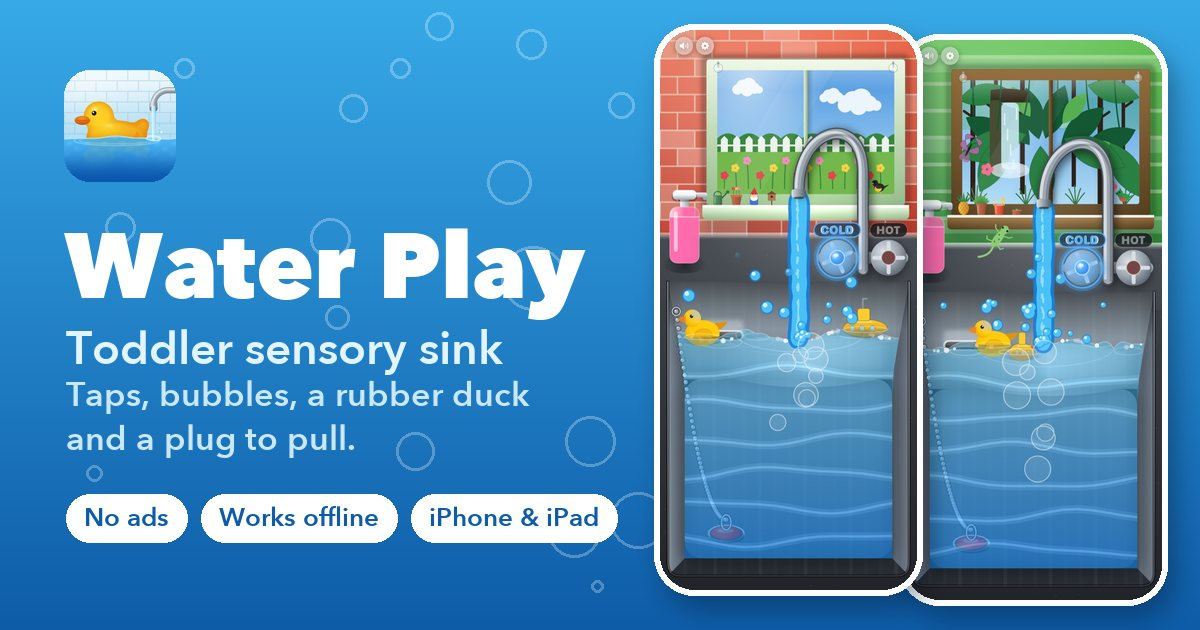
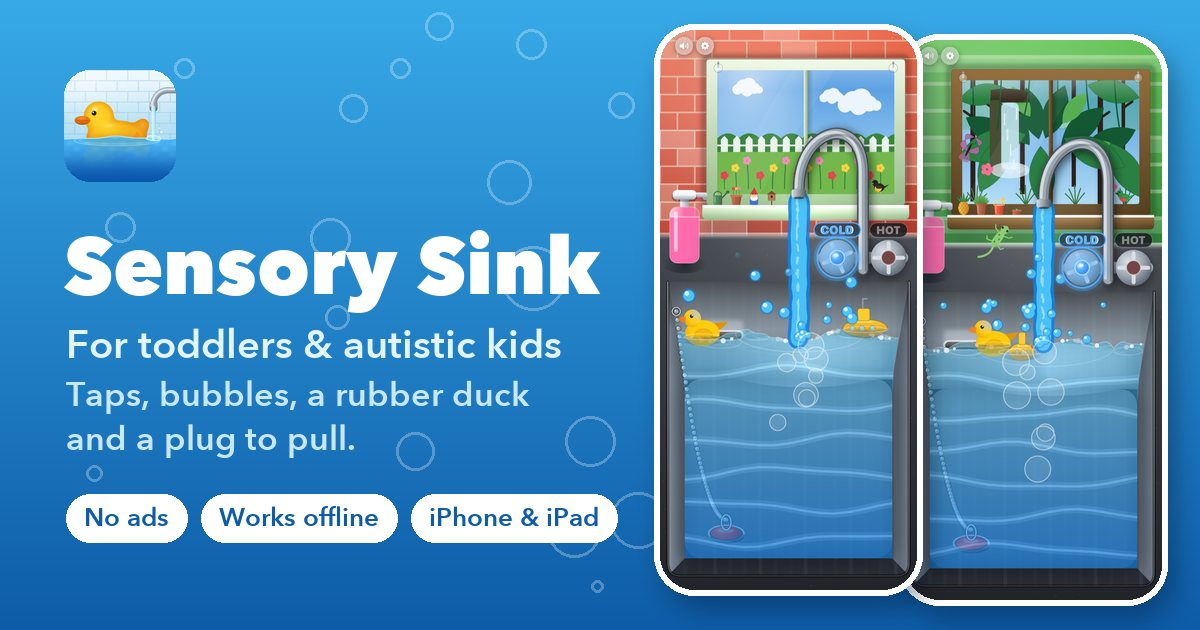
Sensory Sink: share image, email subjects, form subject and store links

Changed region(s): [[0.0308, 0.3619, 0.5242, 0.6032]]

diff --git a/apps/waterplay/about/index.html b/apps/waterplay/about/index.html
@@ -32,7 +32,7 @@
   <link rel="icon" type="image/png" sizes="32x32" href="/favicon-32x32.png">
   <link rel="icon" type="image/png" sizes="16x16" href="/favicon-16x16.png">
   <link rel="manifest" href="/site.webmanifest">
-  <script type="application/ld+json" id="ld-seo">{"@context":"https://schema.org","@graph":[{"@type":"Organization","@id":"https://joemet123.com/#org","name":"JOEMET123","url":"https://joemet123.com/","logo":{"@type":"ImageObject","url":"https://joemet123.com/android-chrome-512x512.png","width":512,"height":512}},{"@type":"WebSite","@id":"https://joemet123.com/#website","url":"https://joemet123.com/","name":"JOEMET123","inLanguage":"en","publisher":{"@id":"https://joemet123.com/#org"}},{"@type":"AboutPage","@id":"https://joemet123.com/apps/waterplay/about/#webpage","url":"https://joemet123.com/apps/waterplay/about/","name":"Sensory Sink: Water Play Fun! — For toddlers & autistic kids","description":"Sensory Sink is a calm, real-feeling water play sink made for toddlers and autistic kids. Turn the taps, pull the plug and float the rubber duck. No ads, works offline.","inLanguage":"en","isPartOf":{"@id":"https://joemet123.com/#website"},"about":{"@id":"https://joemet123.com/apps/waterplay/#app"},"mainEntity":{"@id":"https://joemet123.com/apps/waterplay/#app"},"breadcrumb":{"@id":"https://joemet123.com/apps/waterplay/about/#breadcrumb"},"dateModified":"2026-10-10","primaryImageOfPage":{"@type":"ImageObject","url":"https://joemet123.com/apps/waterplay/img/og.jpg","width":1200,"height":630}},{"@type":"BreadcrumbList","@id":"https://joemet123.com/apps/waterplay/about/#breadcrumb","itemListElement":[{"@type":"ListItem","position":1,"name":"Home","item":"https://joemet123.com/"},{"@type":"ListItem","position":2,"name":"Apps","item":"https://joemet123.com/apps.html"},{"@type":"ListItem","position":3,"name":"Sensory Sink","item":"https://joemet123.com/apps/waterplay/about/"}]},{"@type":"MobileApplication","@id":"https://joemet123.com/apps/waterplay/#app","name":"Sensory Sink: Water Play Fun!","alternateName":["Sensory Sink","Water Play"],"description":"A calm, real-feeling kitchen sink made for toddlers and autistic kids who love water: turn the taps, splash, pull the plug, pump soap bubbles and float the rubber duck. Made for Kids (ages 5 and under). No ads, no accounts, works offline.","url":"https://joemet123.com/apps/waterplay/about/","image":"https://joemet123.com/apps/icons/waterplay.png","screenshot":["https://joemet123.com/apps/waterplay/img/iphone_1.jpg","https://joemet123.com/apps/waterplay/img/iphone_6.jpg","https://joemet123.com/apps/waterplay/img/iphone_7.jpg","https://joemet123.com/apps/waterplay/img/iphone_8.jpg","https://joemet123.com/apps/waterplay/img/ipad_1.jpg"],"operatingSystem":"iOS 17.0 or later, iPadOS 17.0 or later","applicationCategory":"GameApplication","applicationSubCategory":"Family","genre":["Family","Casual","Education"],"contentRating":"Made for Kids, ages 5 and under","inLanguage":"en","isAccessibleForFree":true,"accessibilityFeature":["VoiceOver","Switch Control"],"installUrl":"https://apps.apple.com/app/id6810486926","downloadUrl":"https://apps.apple.com/app/id6810486926","sameAs":["https://apps.apple.com/us/app/water-play-sink-into-fun/id6810486926"],"featureList":["Hot and cold taps with on/off lamps","Multi-touch splashing","A plug to pull and push back in","Soap pump, bubbles and foam","Rubber duck, submarine and penguin toys","A steamy window to wipe","Day, sunset and night skies","Twelve window views","No ads","No accounts","Works offline","Grown-up gate on the purchase","Family Sharing","VoiceOver and Switch Control","iPhone, iPad and iPhone Duo"],"offers":[{"@type":"Offer","price":"0","priceCurrency":"USD","category":"free"},{"@type":"Offer","name":"Unlock Everything","description":"Every window, toy, wall and sound, for good","price":"2.99","priceCurrency":"USD","category":"in-app purchase"}],"publisher":{"@type":"Organization","@id":"https://joemet123.com/apps.html#llc","name":"JOEMET123 LLC","url":"https://joemet123.com/apps.html","email":"Business@joemet123.com"},"audience":{"@type":"PeopleAudience","suggestedMinAge":0,"suggestedMaxAge":5}},{"@type":"FAQPage","@id":"https://joemet123.com/apps/waterplay/about/#faq","mainEntity":[{"@type":"Question","name":"Is Sensory Sink free?","acceptedAnswer":{"@type":"Answer","text":"Yes. Sensory Sink is free to download and free to play, with four windows, three toys, two wall styles in six colors and the steady water sound. One optional $2.99 purchase, Unlock Everything, opens the other eight windows, six more toys and more for good, once, with no subscription."}},{"@type":"Question","name":"Does Sensory Sink have ads?","acceptedAnswer":{"@type":"Answer","text":"No. There are no ads of any kind, no pop-ups, no analytics and no links out of the app for a child to tap."}},{"@type":"Question","name":"Does it work offline?","acceptedAnswer":{"@type":"Answer","text":"Yes. The sink runs entirely on the device, so it works on a plane, in a car or in a waiting room with no internet connection. Only buying or restoring the unlock needs a connection."}},{"@type":"Question","name":"Is Sensory Sink suitable for autistic children?","acceptedAnswer":{"@type":"Answer","text":"Sensory Sink is made for toddlers and autistic kids. Many autistic and sensory-seeking children love running water, and the app was designed with them in mind: calm sounds, no timers, no scores, nothing that can fail and no sudden surprises. It is a play app, not a therapy or treatment, and every child is different, so try the free version first and see how your child responds."}},{"@type":"Question","name":"What ages is Sensory Sink for?","acceptedAnswer":{"@type":"Answer","text":"Sensory Sink is made for toddlers and autistic kids, and is in the App Store's Kids category for ages 5 and under. There is no reading and nothing to win."}},{"@type":"Question","name":"Does Family Sharing work with the unlock?","acceptedAnswer":{"@type":"Answer","text":"Yes. Unlock Everything supports Family Sharing, so one purchase opens everything on every device in your family group. If it does not appear, tap Restore in the settings."}},{"@type":"Question","name":"Does it work on iPad and the iPhone Duo?","acceptedAnswer":{"@type":"Answer","text":"Yes. Sensory Sink runs on iPhone and iPad with iOS 17 or later. On iPad the sink fills the screen, and on the iPhone Duo it fits the folded cover screen and stays clear of the camera."}},{"@type":"Question","name":"Can my child buy something by accident?","acceptedAnswer":{"@type":"Answer","text":"No. Locked items show a padlock, and tapping one opens a grown-up gate, a multiplication question that has to be typed in, before the purchase sheet appears. A child tapping around the settings cannot reach a purchase."}},{"@type":"Question","name":"How do I get help?","acceptedAnswer":{"@type":"Answer","text":"Use the Sensory Sink support page or email Business@joemet123.com with \"Sensory Sink\" in the subject. A person replies within 3 business days."}}]}]}</script>
+  <script type="application/ld+json" id="ld-seo">{"@context":"https://schema.org","@graph":[{"@type":"Organization","@id":"https://joemet123.com/#org","name":"JOEMET123","url":"https://joemet123.com/","logo":{"@type":"ImageObject","url":"https://joemet123.com/android-chrome-512x512.png","width":512,"height":512}},{"@type":"WebSite","@id":"https://joemet123.com/#website","url":"https://joemet123.com/","name":"JOEMET123","inLanguage":"en","publisher":{"@id":"https://joemet123.com/#org"}},{"@type":"AboutPage","@id":"https://joemet123.com/apps/waterplay/about/#webpage","url":"https://joemet123.com/apps/waterplay/about/","name":"Sensory Sink: Water Play Fun! — For toddlers & autistic kids","description":"Sensory Sink is a calm, real-feeling water play sink made for toddlers and autistic kids. Turn the taps, pull the plug and float the rubber duck. No ads, works offline.","inLanguage":"en","isPartOf":{"@id":"https://joemet123.com/#website"},"about":{"@id":"https://joemet123.com/apps/waterplay/#app"},"mainEntity":{"@id":"https://joemet123.com/apps/waterplay/#app"},"breadcrumb":{"@id":"https://joemet123.com/apps/waterplay/about/#breadcrumb"},"dateModified":"2026-10-10","primaryImageOfPage":{"@type":"ImageObject","url":"https://joemet123.com/apps/waterplay/img/og.jpg","width":1200,"height":630}},{"@type":"BreadcrumbList","@id":"https://joemet123.com/apps/waterplay/about/#breadcrumb","itemListElement":[{"@type":"ListItem","position":1,"name":"Home","item":"https://joemet123.com/"},{"@type":"ListItem","position":2,"name":"Apps","item":"https://joemet123.com/apps.html"},{"@type":"ListItem","position":3,"name":"Sensory Sink","item":"https://joemet123.com/apps/waterplay/about/"}]},{"@type":"MobileApplication","@id":"https://joemet123.com/apps/waterplay/#app","name":"Sensory Sink: Water Play Fun!","alternateName":["Sensory Sink","Water Play"],"description":"A calm, real-feeling kitchen sink made for toddlers and autistic kids who love water: turn the taps, splash, pull the plug, pump soap bubbles and float the rubber duck. Made for Kids (ages 5 and under). No ads, no accounts, works offline.","url":"https://joemet123.com/apps/waterplay/about/","image":"https://joemet123.com/apps/icons/waterplay.png","screenshot":["https://joemet123.com/apps/waterplay/img/iphone_1.jpg","https://joemet123.com/apps/waterplay/img/iphone_6.jpg","https://joemet123.com/apps/waterplay/img/iphone_7.jpg","https://joemet123.com/apps/waterplay/img/iphone_8.jpg","https://joemet123.com/apps/waterplay/img/ipad_1.jpg"],"operatingSystem":"iOS 17.0 or later, iPadOS 17.0 or later","applicationCategory":"GameApplication","applicationSubCategory":"Family","genre":["Family","Casual","Education"],"contentRating":"Made for Kids, ages 5 and under","inLanguage":"en","isAccessibleForFree":true,"accessibilityFeature":["VoiceOver","Switch Control"],"installUrl":"https://apps.apple.com/app/id6810486926","downloadUrl":"https://apps.apple.com/app/id6810486926","sameAs":["https://apps.apple.com/us/app/id6810486926"],"featureList":["Hot and cold taps with on/off lamps","Multi-touch splashing","A plug to pull and push back in","Soap pump, bubbles and foam","Rubber duck, submarine and penguin toys","A steamy window to wipe","Day, sunset and night skies","Twelve window views","No ads","No accounts","Works offline","Grown-up gate on the purchase","Family Sharing","VoiceOver and Switch Control","iPhone, iPad and iPhone Duo"],"offers":[{"@type":"Offer","price":"0","priceCurrency":"USD","category":"free"},{"@type":"Offer","name":"Unlock Everything","description":"Every window, toy, wall and sound, for good","price":"2.99","priceCurrency":"USD","category":"in-app purchase"}],"publisher":{"@type":"Organization","@id":"https://joemet123.com/apps.html#llc","name":"JOEMET123 LLC","url":"https://joemet123.com/apps.html","email":"Business@joemet123.com"},"audience":{"@type":"PeopleAudience","suggestedMinAge":0,"suggestedMaxAge":5}},{"@type":"FAQPage","@id":"https://joemet123.com/apps/waterplay/about/#faq","mainEntity":[{"@type":"Question","name":"Is Sensory Sink free?","acceptedAnswer":{"@type":"Answer","text":"Yes. Sensory Sink is free to download and free to play, with four windows, three toys, two wall styles in six colors and the steady water sound. One optional $2.99 purchase, Unlock Everything, opens the other eight windows, six more toys and more for good, once, with no subscription."}},{"@type":"Question","name":"Does Sensory Sink have ads?","acceptedAnswer":{"@type":"Answer","text":"No. There are no ads of any kind, no pop-ups, no analytics and no links out of the app for a child to tap."}},{"@type":"Question","name":"Does it work offline?","acceptedAnswer":{"@type":"Answer","text":"Yes. The sink runs entirely on the device, so it works on a plane, in a car or in a waiting room with no internet connection. Only buying or restoring the unlock needs a connection."}},{"@type":"Question","name":"Is Sensory Sink suitable for autistic children?","acceptedAnswer":{"@type":"Answer","text":"Sensory Sink is made for toddlers and autistic kids. Many autistic and sensory-seeking children love running water, and the app was designed with them in mind: calm sounds, no timers, no scores, nothing that can fail and no sudden surprises. It is a play app, not a therapy or treatment, and every child is different, so try the free version first and see how your child responds."}},{"@type":"Question","name":"What ages is Sensory Sink for?","acceptedAnswer":{"@type":"Answer","text":"Sensory Sink is made for toddlers and autistic kids, and is in the App Store's Kids category for ages 5 and under. There is no reading and nothing to win."}},{"@type":"Question","name":"Does Family Sharing work with the unlock?","acceptedAnswer":{"@type":"Answer","text":"Yes. Unlock Everything supports Family Sharing, so one purchase opens everything on every device in your family group. If it does not appear, tap Restore in the settings."}},{"@type":"Question","name":"Does it work on iPad and the iPhone Duo?","acceptedAnswer":{"@type":"Answer","text":"Yes. Sensory Sink runs on iPhone and iPad with iOS 17 or later. On iPad the sink fills the screen, and on the iPhone Duo it fits the folded cover screen and stays clear of the camera."}},{"@type":"Question","name":"Can my child buy something by accident?","acceptedAnswer":{"@type":"Answer","text":"No. Locked items show a padlock, and tapping one opens a grown-up gate, a multiplication question that has to be typed in, before the purchase sheet appears. A child tapping around the settings cannot reach a purchase."}},{"@type":"Question","name":"How do I get help?","acceptedAnswer":{"@type":"Answer","text":"Use the Sensory Sink support page or email Business@joemet123.com with \"Sensory Sink\" in the subject. A person replies within 3 business days."}}]}]}</script>
   <style>
     .ss-gallery { display: grid; grid-template-columns: repeat(2, minmax(0, 1fr)); gap: 0.8rem; }
     @media (min-width: 700px) { .ss-gallery { grid-template-columns: repeat(4, minmax(0, 1fr)); } }
@@ -220,7 +220,7 @@
           </div>
           <div class="faq-item">
             <p class="faq-q">How do I get help?</p>
-            <p class="faq-a">Use the <a href="/apps/waterplay/contact/">Sensory Sink support page</a> or email <a href="mailto:Business@joemet123.com?subject=Water%20Play">Business@joemet123.com</a> with "Sensory Sink" in the subject. A person replies within 3 business days.</p>
+            <p class="faq-a">Use the <a href="/apps/waterplay/contact/">Sensory Sink support page</a> or email <a href="mailto:Business@joemet123.com?subject=Sensory%20Sink">Business@joemet123.com</a> with "Sensory Sink" in the subject. A person replies within 3 business days.</p>
           </div>
         </div>
 <p><a class="btn btn-accent" href="https://apps.apple.com/app/id6810486926" target="_blank" rel="noopener">Download on the App Store</a></p>

diff --git a/apps/waterplay/contact/index.html b/apps/waterplay/contact/index.html
@@ -71,7 +71,7 @@
           </div>
         </div>
         <p class="app-meta">Support for the Sensory Sink app for iPhone and iPad · Published by Joemet123 LLC</p>
-        <div class="app-actions"><a class="btn btn-accent" href="mailto:Business@joemet123.com?subject=Water%20Play">Email support</a><a class="btn btn-outline" href="https://apps.apple.com/us/app/water-play-sink-into-fun/id6810486926" target="_blank" rel="noopener">View on the App Store</a></div>
+        <div class="app-actions"><a class="btn btn-accent" href="mailto:Business@joemet123.com?subject=Sensory%20Sink">Email support</a><a class="btn btn-outline" href="https://apps.apple.com/us/app/id6810486926" target="_blank" rel="noopener">View on the App Store</a></div>
         <nav class="app-siblings" aria-label="Sensory Sink pages"><a class="app-sibling" href="/apps/waterplay/about/">About the app</a><a class="app-sibling" href="/apps/waterplay/">Privacy policy</a><a class="app-sibling is-current" href="/apps/waterplay/contact/">Contact &amp; support</a></nav>
       </div>
     </section>
@@ -94,7 +94,7 @@
 <h2>Overview</h2>
 <p class="lede">Something not working, a purchase that did not arrive, or an idea for the sink? Email and a person will reply.</p>
   <div class="card">
-    <p><strong>Email:</strong> <a href="mailto:Business@joemet123.com?subject=Water%20Play%20support">Business@joemet123.com</a><br>
+    <p><strong>Email:</strong> <a href="mailto:Business@joemet123.com?subject=Sensory%20Sink%20support">Business@joemet123.com</a><br>
     Put <strong>Sensory Sink</strong> in the subject line. We answer within 3 business days, and within 30 days for privacy requests.</p>
   </div>
 </section>
@@ -104,8 +104,8 @@
 
           <input type="hidden" name="access_key" value="74abca8b-51a6-42d0-b932-e4611e8b5456">
           <input type="hidden" name="redirect" value="https://joemet123.com/thanks.html">
-          <input type="hidden" name="subject" value="Water Play support — Joemet123.com">
-          <input type="hidden" name="from_name" value="Joemet123.com — Water Play">
+          <input type="hidden" name="subject" value="Sensory Sink support — Joemet123.com">
+          <input type="hidden" name="from_name" value="Joemet123.com — Sensory Sink">
           <input type="checkbox" name="botcheck" class="hidden" style="display:none" tabindex="-1" autocomplete="off">
 
           <label class="form-field">
@@ -126,7 +126,7 @@
           <button type="submit" class="btn btn-accent">Send message</button>
           <p class="form-status" id="form-status" role="status" aria-live="polite" hidden></p>
         </form>
-        <p class="form-fallback">Prefer email? Write to <a href="mailto:Business@joemet123.com?subject=Water%20Play">Business@joemet123.com</a> directly.</p>
+        <p class="form-fallback">Prefer email? Write to <a href="mailto:Business@joemet123.com?subject=Sensory%20Sink">Business@joemet123.com</a> directly.</p>
         <script>!function(){var t=document.querySelector(".contact-form");if(t&&window.fetch&&window.FormData){var e=document.getElementById("form-status"),n=t.querySelector('button[type="submit"]'),o=n.textContent;t.addEventListener("submit",function(o){o.preventDefault(),e.hidden=!0,n.disabled=!0,n.textContent="Sending\u2026";var i=new FormData(t);i.delete("redirect"),fetch("https://api.web3forms.com/submit",{method:"POST",headers:{Accept:"application/json"},body:i}).then(function(t){return t.json().then(function(e){return{ok:t.ok,j:e}})}).then(function(e){e.ok&&!0===e.j.success?window.location.href=t.querySelector('input[name="redirect"]').value:r()}).catch(r)})}function r(){e.hidden=!1,e.className="form-status is-error",e.textContent="Sorry, That Didn't Send. Please Email Business@joemet123.com Directly.",n.disabled=!1,n.textContent=o}}();</script>
 </section>
 <section class="legal-sec" id="what-to-include">

diff --git a/apps/waterplay/index.html b/apps/waterplay/index.html
@@ -71,7 +71,7 @@
           </div>
         </div>
         <p class="app-meta">Effective 9 October 2026 · Published by Joemet123 LLC</p>
-        <div class="app-actions"><a class="btn btn-accent" href="mailto:Business@joemet123.com?subject=Water%20Play">Email support</a><a class="btn btn-outline" href="https://apps.apple.com/us/app/water-play-sink-into-fun/id6810486926" target="_blank" rel="noopener">View on the App Store</a></div>
+        <div class="app-actions"><a class="btn btn-accent" href="mailto:Business@joemet123.com?subject=Sensory%20Sink">Email support</a><a class="btn btn-outline" href="https://apps.apple.com/us/app/id6810486926" target="_blank" rel="noopener">View on the App Store</a></div>
         <nav class="app-siblings" aria-label="Sensory Sink pages"><a class="app-sibling" href="/apps/waterplay/about/">About the app</a><a class="app-sibling is-current" href="/apps/waterplay/">Privacy policy</a><a class="app-sibling" href="/apps/waterplay/contact/">Contact &amp; support</a></nav>
       </div>
     </section>
@@ -102,7 +102,7 @@
 </section>
 <section class="legal-sec" id="contact">
 <h2>Contact</h2>
-<p>Questions or requests about your data: <a href="mailto:Business@joemet123.com?subject=Water%20Play%20privacy">Business@joemet123.com</a>. Put "Sensory Sink" in the subject and you will have a reply within 30 days. Joemet123 LLC is the data controller for this app.</p>
+<p>Questions or requests about your data: <a href="mailto:Business@joemet123.com?subject=Sensory%20Sink%20privacy">Business@joemet123.com</a>. Put "Sensory Sink" in the subject and you will have a reply within 30 days. Joemet123 LLC is the data controller for this app.</p>
 </section>
 <section class="legal-sec" id="what-is-collected">
 <h2>What is collected</h2>
@@ -129,7 +129,7 @@
   <li>It has no links out of the app, no social features and no way to contact anyone.</li>
   <li>Its one optional purchase, and the option to restore it, sit behind a grown-up gate: a multiplication question that has to be typed in.</li>
 </ul>
-<p>Parents can email <a href="mailto:Business@joemet123.com?subject=Water%20Play%20privacy">Business@joemet123.com</a> with any question. There is nothing to review or delete, because nothing is stored off the device.</p>
+<p>Parents can email <a href="mailto:Business@joemet123.com?subject=Sensory%20Sink%20privacy">Business@joemet123.com</a> with any question. There is nothing to review or delete, because nothing is stored off the device.</p>
 </section>
 <section class="legal-sec" id="your-rights">
 <h2>Your rights</h2>
